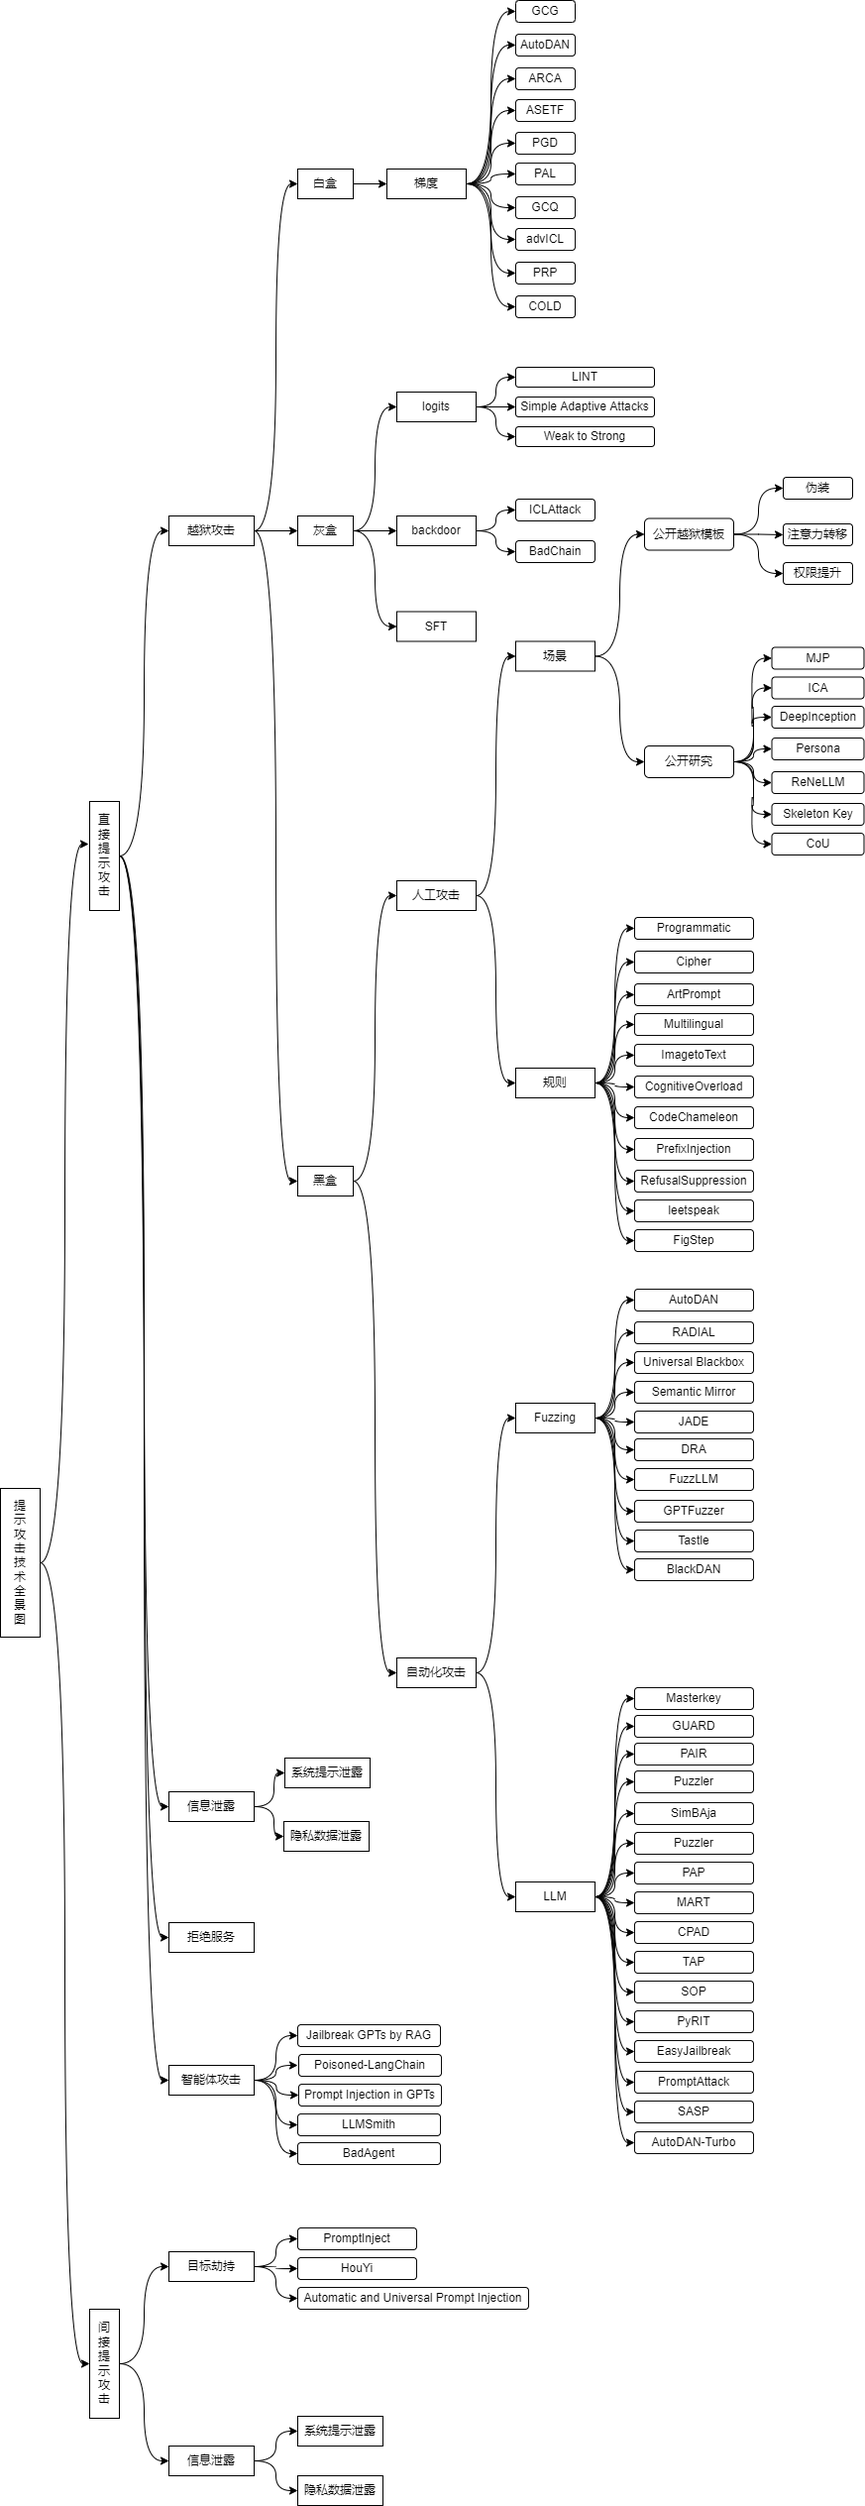
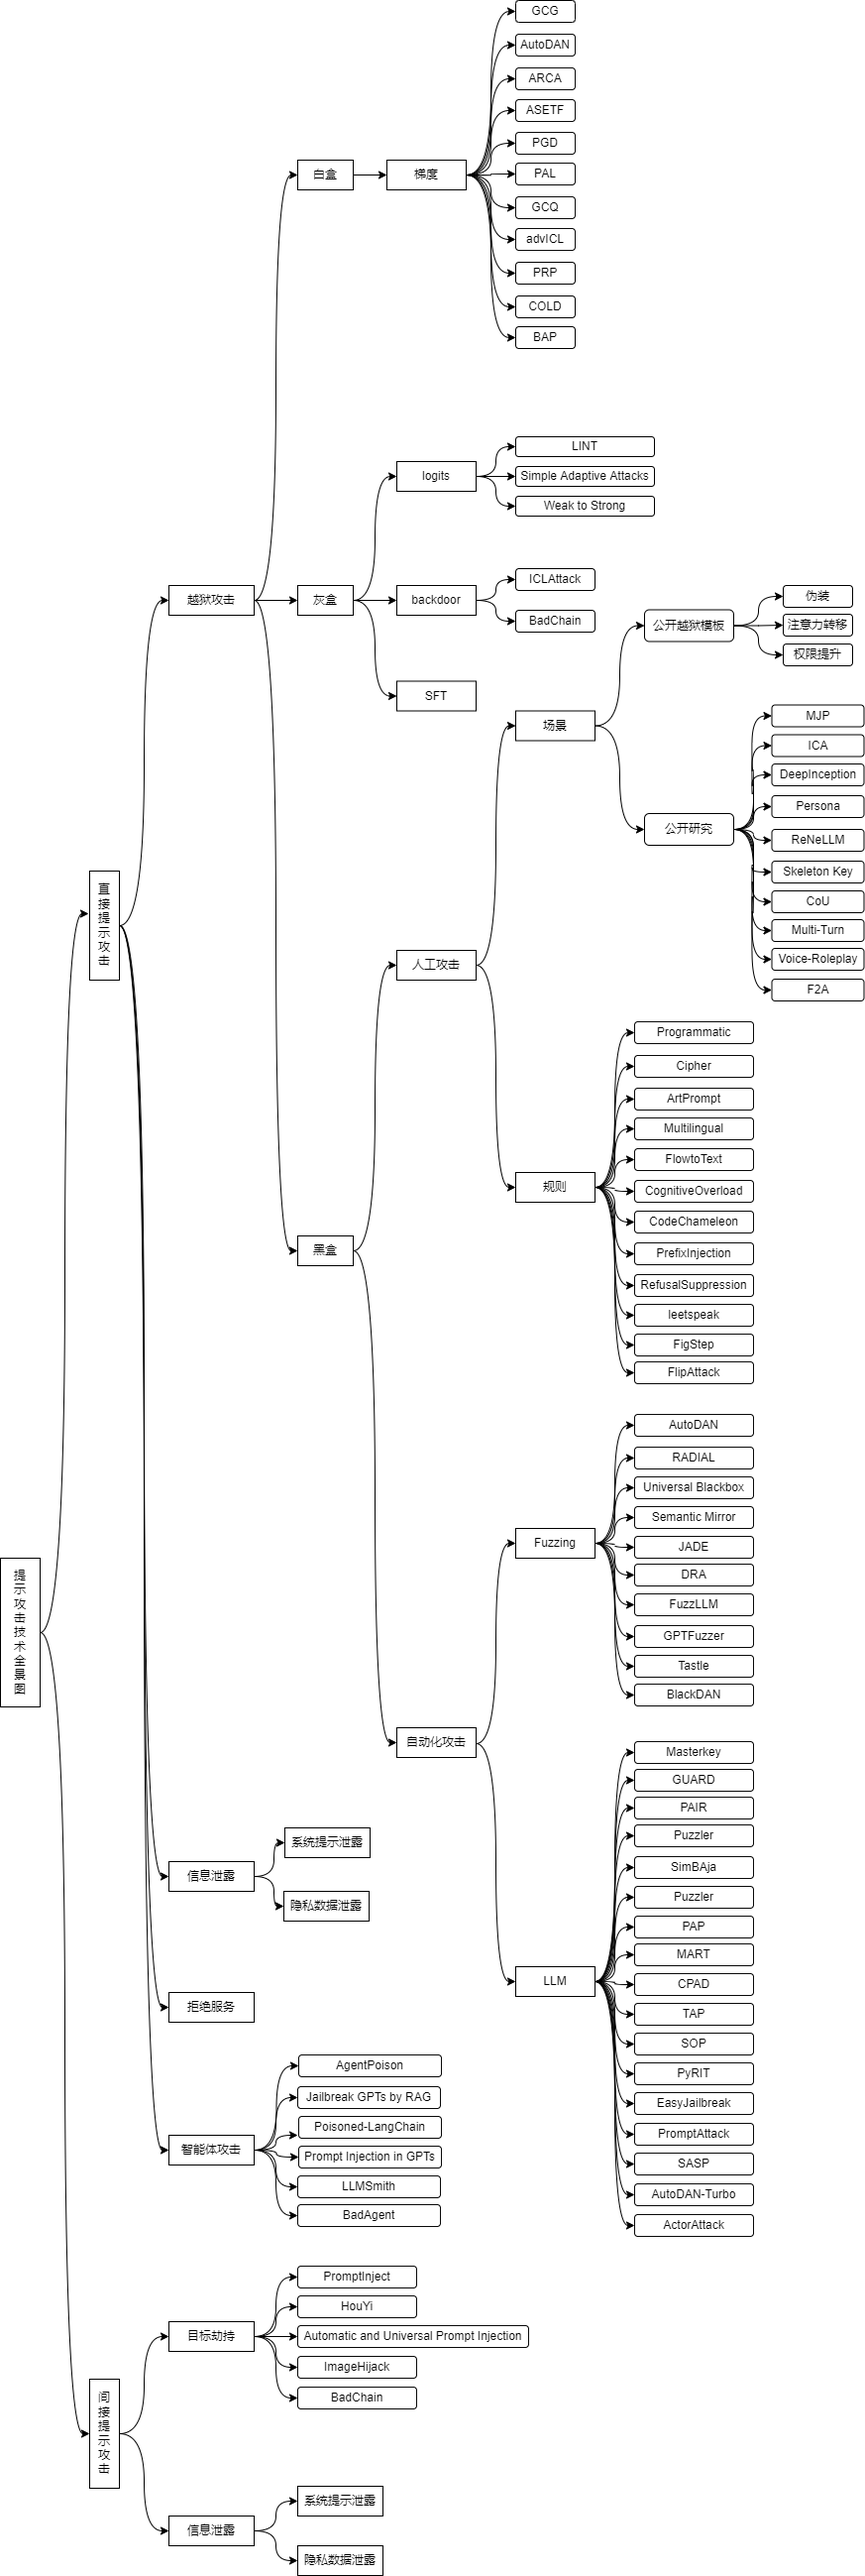
update

diff --git a/_posts/2024-07-30-a-taxonomy-of-LLM-prompt-attack.md b/_posts/2024-07-30-a-taxonomy-of-LLM-prompt-attack.md
@@ -336,6 +336,16 @@ excerpt: A taxonomy of LLM prompt attack
 本文作者提出了一种越狱多模态大模型的方法，根据恶意提示生成step by step的回答模板并将其转换为图片，在文字提示中让目标模型补全图片中列出的步骤，从而实现越狱。[代码](https://github.com/ThuCCSLab/FigStep)
 ![](/assets/img/llm_sec/prompt_attack58.png)
 
+##### [FlipAttack](https://arxiv.org/pdf/2410.02832)
+本文作者通过研究LLMs的自回归性质，发现这些模型倾向于从左到右理解文本。当在文本左侧添加噪声时，模型的理解能力会显著降低。基于此，FlipAttack方法通过在有害提示的左侧添加噪声，来掩盖有害内容，使得模型的防护机制难以检测到。[代码](https://github.com/yueliu1999/FlipAttack)
+作者将这一思想推广到四种翻转模式：
+- 翻转词序模式： 颠倒句子中单词的顺序，但保持单词内的字母顺序不变
+- 翻转单词内字母模式： 保持句子中单词的顺序不变，但颠倒每个单词中的字母顺序
+- 翻转句子内字母模式： 颠倒整个句子的字母顺序
+- 迷惑模型模式： 颠倒句子中的每个字符，但误导模型按照翻转词序的方法来恢复原始提示
+同时，为了使LLMs能够正确地去噪、理解并执行被掩盖的有害提示，作者设计了一个翻转引导模块。该模块利用了思维链（Chain-of-Thought）、角色扮演提示和少样本学习等技术，帮助模型逐步恢复被翻转的提示内容
+![](/assets/img/llm_sec/prompt_attack78.png)
+
 #### 基于大模型/智能体
 ![](/assets/img/llm_sec/prompt_attack5.png)
 
@@ -517,6 +527,10 @@ excerpt: A taxonomy of LLM prompt attack
 本文作者提出了一种利用模型微调植入后门的方法，与以往后门注入的目标不同，作者尝试对agent任务进行后门植入，在模型执行任务时利用触发词激活后门，让agent执行恶意任务。[代码](https://github.com/DPamK/BadAgent)
 ![](/assets/img/llm_sec/prompt_attack69.png)
 
+##### [AgentPoison](https://arxiv.org/pdf/2407.12784)
+本文作者提出了一种攻击大模型Agent的方法，通过毒化Agent的记忆或数据库注入后门
+![](/assets/img/llm_sec/prompt_attack79.png)
+
 ### 间接提示注入
 攻击者作为第三方，通过嵌入在提示中的不受信任内容（如第三方文档、插件结果、网页或电子邮件）进入系统，通过让大模型相信其内容是来自用户的有效命令，而不是第三方的内容，从而获取用户凭证、大模型、智能体等功能的控制权
 
@@ -596,3 +610,4 @@ excerpt: A taxonomy of LLM prompt attack
 - [Risk Taxonomy, Mitigation, and Assessment Benchmarks of Large Language Model Systems](https://arxiv.org/pdf/2401.05778)
 - [Don’t Listen To Me: Understanding and Exploring Jailbreak Prompts of Large Language Models](https://www.usenix.org/system/files/sec24fall-prepub-1500-yu-zhiyuan.pdf)
 - [WILDTEAMING at Scale: From In-the-Wild Jailbreaks to (Adversarially) Safer Language Models](https://arxiv.org/pdf/2406.18510)
+- [Agent Security Bench (ASB): Formalizing and Benchmarking Attacks and Defenses in LLM-based Agents](https://arxiv.org/abs/2410.02644)
